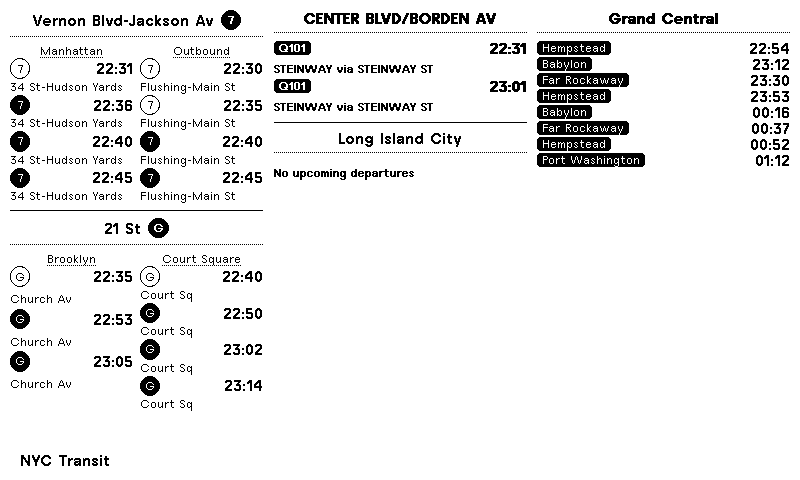
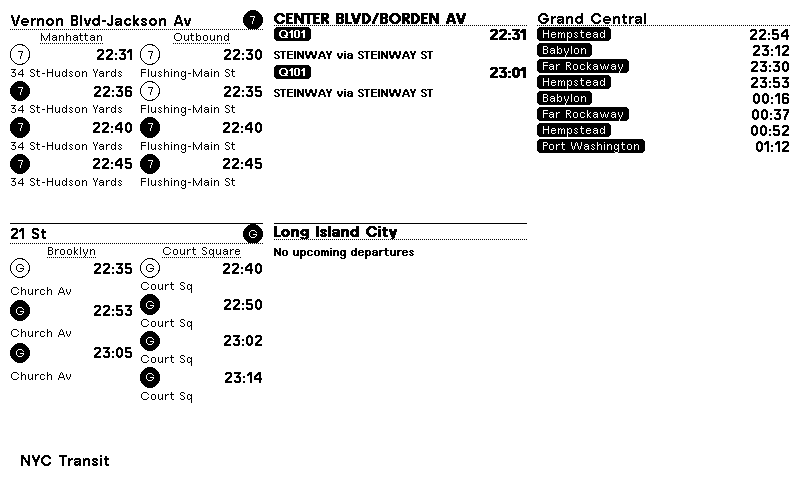
Divide a split column at a fixed half
Reported: columns were not dividing evenly. They were not - measured, the
divider landed wherever the top card happened to end. A two-row bus card put
it a quarter of the way down and gave the card below three quarters of the
column, so two boards with the same layout looked different.

Each card in a split column now claims half the height. Three things were
needed, and the first is the one that had been silently failing:

- flex--1 is not a class in Framework v3.4.4. It was used thirteen times
  across four layouts, doing nothing - including on the direction columns,
  which only looked right because .content happened to fill the space. The
  real utility is `grow`.
- grow alone distributes leftover space, so a tall card still kept more than
  half. basis--0 makes both start from zero and divide evenly.
- col--start sets justify-content: flex-start, which packs children to the
  top and overrides the share. It now applies only to single-card columns,
  where a lone card should still sit at the top.

Result: both split columns divide at exactly 207/207 with the divider on the
same line, verified by measuring the rendered geometry.

On the second question - a user already chooses per column. Setting a slot's
transit type to Off makes that column a single full-height panel; filling
both slots splits it. Verified with a mixed board: left split, middle and
right single.

That is the fifth framework class this project has shipped that does not
[…]

diff --git a/docs/NEXT-SESSION.md b/docs/NEXT-SESSION.md
@@ -47,9 +47,12 @@ Renders are in `docs/images/`. The plan and its open questions are in
 - **The half/quadrant layouts have never been seen at their real size.**
   trmnlp previews every layout at 800x480 regardless, so their cell
   dimensions were derived rather than observed.
-- **`trmnlp lint` only validates `label--*` sizes.** Four classes that do not
-  exist in v3.4.4 passed lint silently this session (`nowrap`,
-  `overflow--hidden`, `items--stretch`, `col--start` inside `.content`).
+- **`trmnlp lint` only validates `label--*` sizes.** Five classes that do not
+  exist in v3.4.4 have passed lint silently: `nowrap`, `overflow--hidden`,
+  `items--stretch`, `col--start` inside `.content`, and `flex--1` — the last
+  used thirteen times across four layouts before being caught. The real
+  flex-grow utility is `grow`, and `basis--0` is needed alongside it for an
+  even split.
   Check new utility classes against the framework stylesheet directly:
   `curl -s https://trmnl.com/css/3.4.4/plugins.css | grep -F '.classname{'`
 
